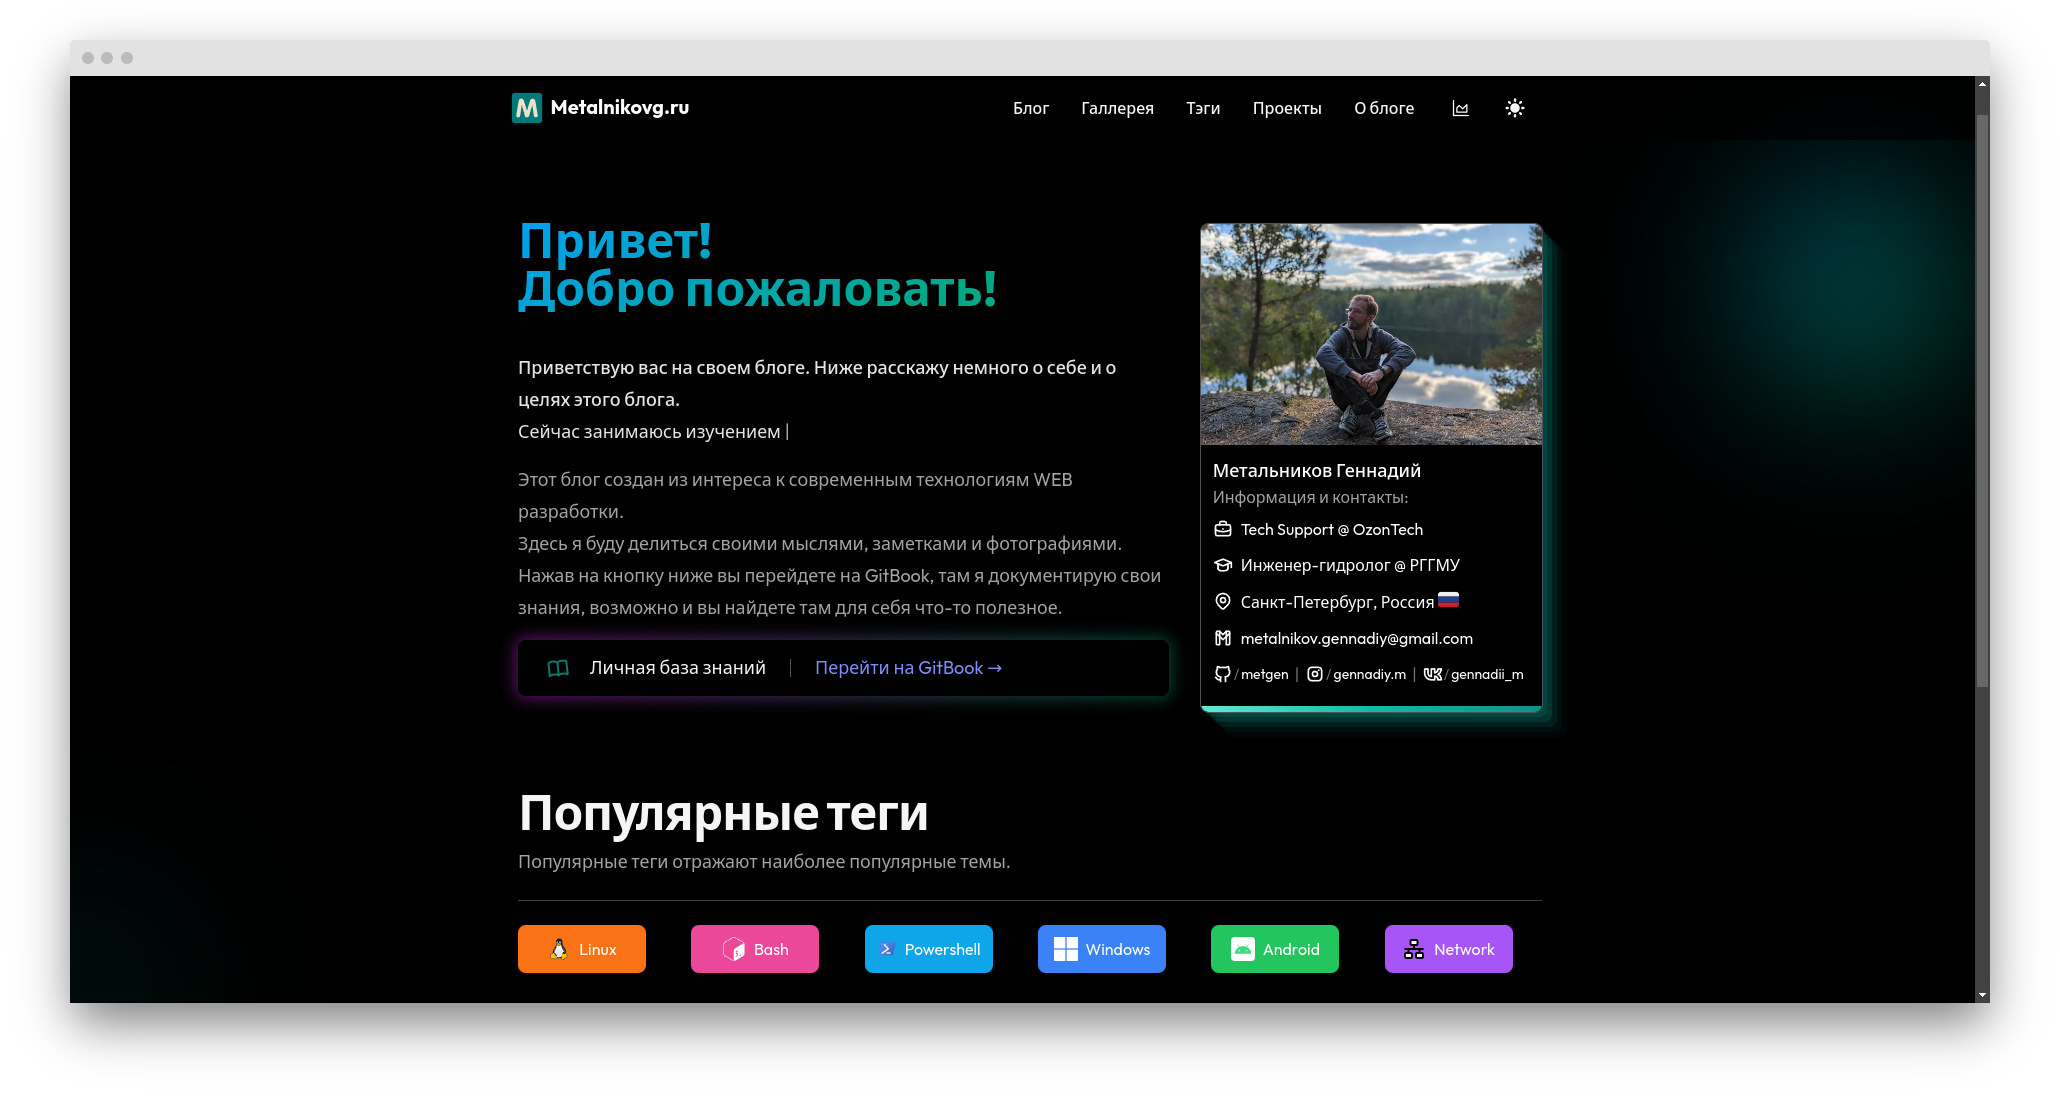
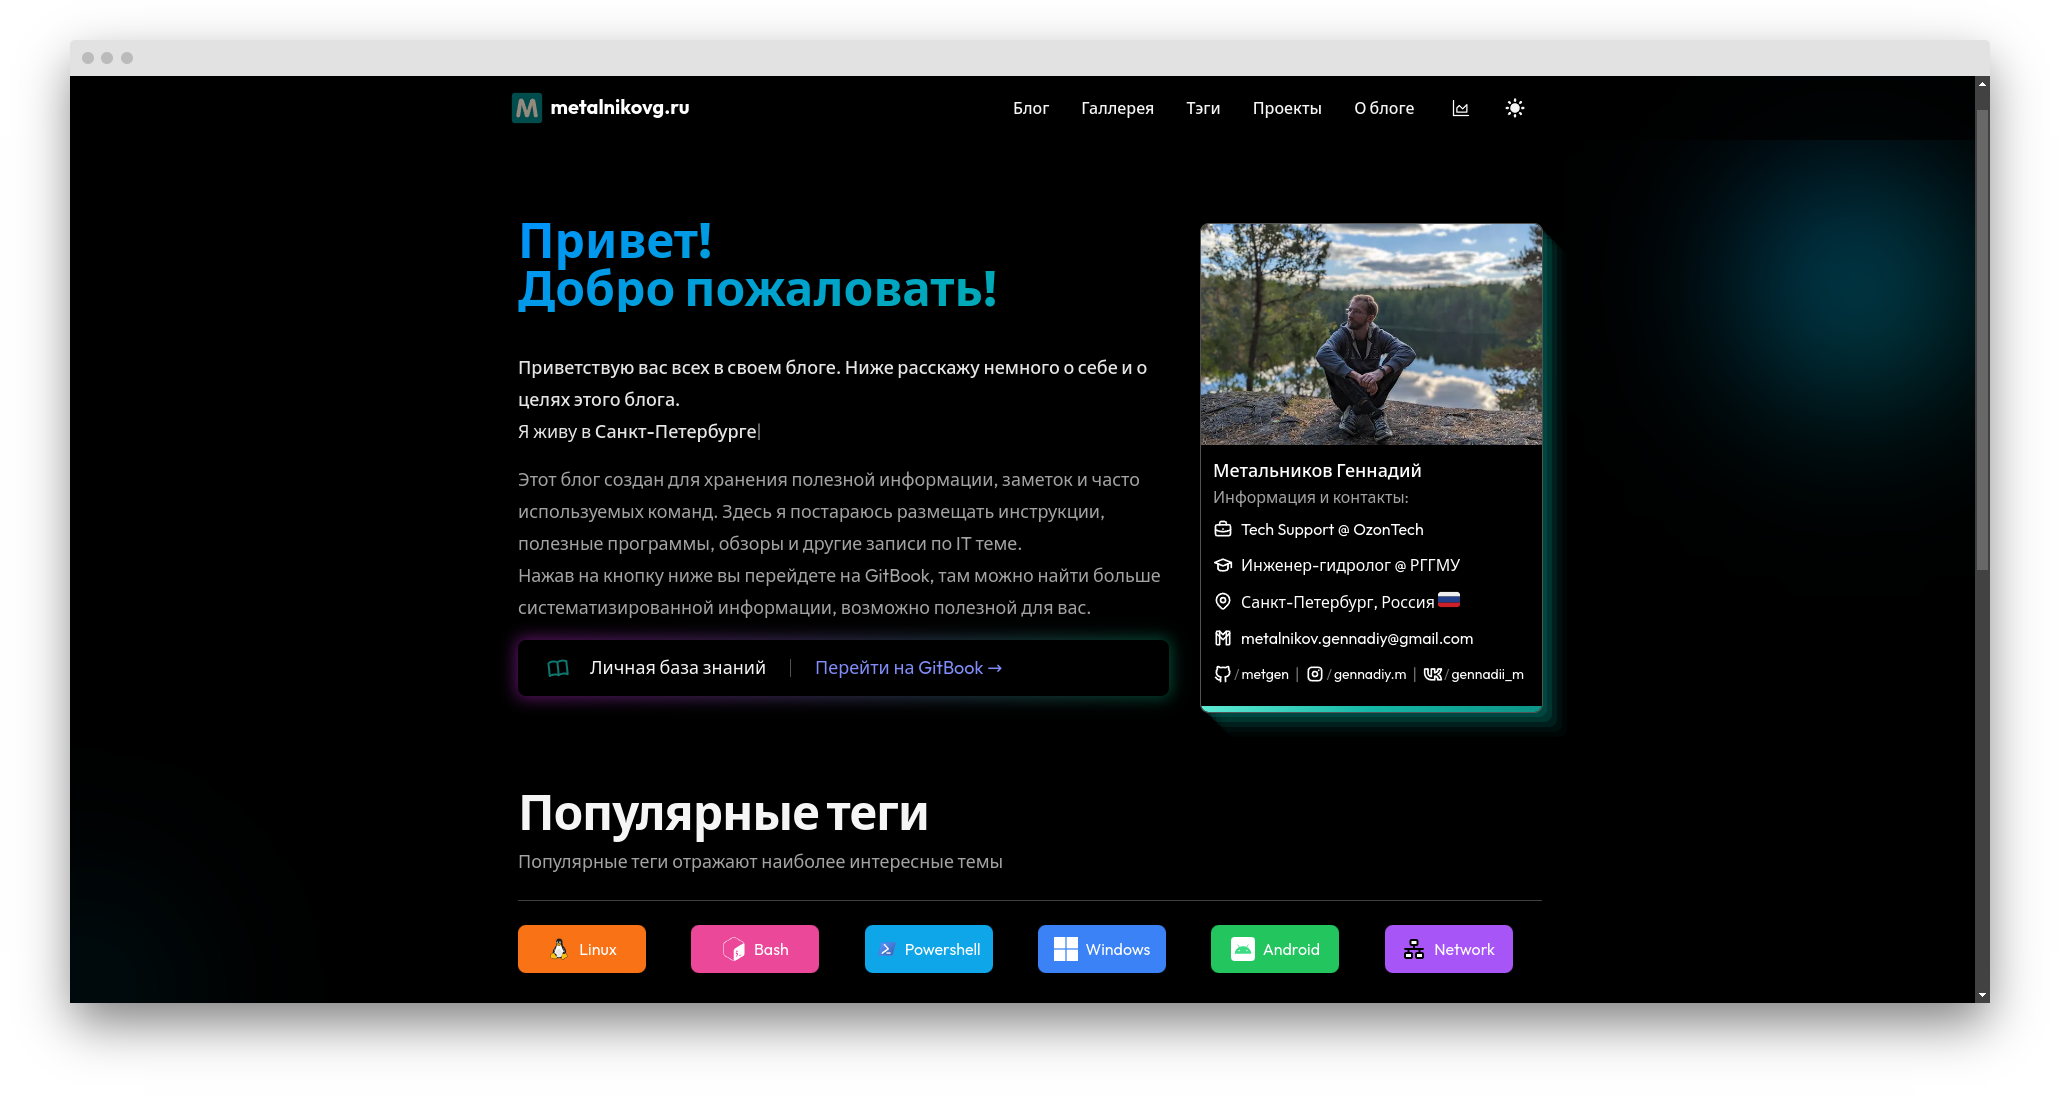
some optimization

diff --git a/layouts/ListLayoutWithTags.tsx b/layouts/ListLayoutWithTags.tsx
@@ -93,13 +93,13 @@ export default function ListLayoutWithTags({
         <div className="hidden h-full max-h-screen min-w-[240px] max-w-[240px] flex-wrap overflow-auto rounded bg-gray-200 pt-5 shadow-md dark:bg-[#24283b] dark:shadow-gray-800/40 sm:flex">
           <div className="px-6 py-4">
             {pathname.startsWith('/blog') ? (
-              <h3 className="font-bold uppercase text-primary">Все посты</h3>
+              <h3 className="font-bold uppercase text-primary">Все записи</h3>
             ) : (
               <Link
                 href={`/blog`}
                 className="font-bold uppercase text-gray-700 hover:text-primary dark:text-gray-300 dark:hover:text-primary"
               >
-                Все посты
+                Все записи
               </Link>
             )}
             <ul>
@@ -141,7 +141,7 @@ export default function ListLayoutWithTags({
                 aria-label="Search articles"
                 type="text"
                 onChange={(e) => setSearchValue(e.target.value)}
-                placeholder="Search articles"
+                placeholder="Ключевые слова"
                 className="block w-full rounded-md border border-gray-300 bg-white px-4 py-2 text-gray-900 focus:border-sky-500 focus:ring-sky-500 dark:border-gray-900 dark:bg-gray-800 dark:text-gray-100"
               />
             </label>

diff --git a/data/projectsData.ts b/data/projectsData.ts
@@ -3,18 +3,34 @@ import type { Project } from '@/types/data';
 const projectsData: Project[] = [
   {
     type: 'main',
-    title: 'GitBook',
-    description: 'Моя личная база знаний',
-    imgSrc: '/static/images/projects/gitbook.png',
-    url: 'https://gitbook.metalnikovg.ru',
-    builtWith: ['GitBook', 'GitHub', 'Markdown'],
-  },
-  {
-    type: 'self',
     title: 'Персональный веб-сайт',
     imgSrc: '/static/images/projects/personal_blog.png',
     repo: 'metalnikovg.ru',
     builtWith: ['Next.js', 'Tailwind', 'Typescript', 'Prisma', 'Umami'],
+  },
+  {
+    type: 'main',
+    title: 'GitBook',
+    imgSrc: '/static/images/projects/gitbook.png',
+    url: 'https://gitbook.metalnikovg.ru',
+    repo: 'gitbook.metalnikovg',
+    builtWith: ['GitBook', 'GitHub', 'Markdown'],
+  },
+  {
+    type: 'main',
+    title: 'EXIF - галерея',
+    imgSrc: '/static/images/projects/gallery.png',
+    url: 'https://gallery.metalnikovg.ru',
+    repo: 'exif-gallery',
+    builtWith: [ 'Vercel', 'Vercel Postgres', 'GitHub', 'Typescript', 'Cloudflare R2'],
+  },
+  {
+    type: 'self',
+    title: 'MKT-monitoring',
+    description: 'Мониторинг роутера Mikrotik',
+    imgSrc: '/static/images/projects/mkt-monitoring.png',
+    repo: 'mkt_monitoring',
+    builtWith: ['Grafana', 'Prometheus', 'Blackbox', 'Nginx', 'Docker'],
   },
 ];
 

diff --git a/components/homepage/ShortDescription.tsx b/components/homepage/ShortDescription.tsx
@@ -1,11 +1,13 @@
 const ShortDescription = () => {
   return (
     <div className="mb-4 mt-4">
-      <p>Этот блог создан из интереса к современным технологиям WEB разработки.</p>
-      <p>Здесь я буду делиться своими мыслями, заметками и фотографиями.</p>
       <p>
-        Нажав на кнопку ниже вы перейдете на GitBook, там я документирую свои знания, возможно и вы найдете там для себя
-        что-то полезное.
+        Этот блог создан для хранения полезной информации, заметок и часто используемых команд. Здесь я постараюсь
+        размещать инструкции, полезные программы, обзоры и другие записи по IT теме.
+      </p>
+      <p>
+        Нажав на кнопку ниже вы перейдете на GitBook, там можно найти больше систематизированной информации, возможно
+        полезной для вас.
       </p>
     </div>
   );

diff --git a/components/blog/BlogMeta.tsx b/components/blog/BlogMeta.tsx
@@ -4,18 +4,19 @@ import type { BlogMetaProps } from '@/types/index';
 
 import { Twemoji } from '../Twemoji';
 import ViewCounter from './ViewCounter';
+import siteMetadata from '@/data/siteMetadata';
 
 const BlogMeta = ({ date, slug, readingTime }: BlogMetaProps) => {
   return (
     <dd className="flex-column flex gap-1 font-semibold text-gray-500 dark:text-gray-400">
       <time dateTime={date} className="flex items-center">
         <Twemoji emoji="calendar" size="1" />
-        <span className="ml-1 md:ml-2">{formatDate(date)}</span>
+        <span className="ml-1 md:ml-2">{formatDate(date, siteMetadata.locale)}</span>
       </time>
       <span className="mx-2">{` • `}</span>
       <div className="flex items-center">
         <Twemoji emoji="hourglass-not-done" size="1" />
-        <span className="ml-1.5 md:ml-2">{Math.ceil(readingTime.minutes)} mins read</span>
+        <span className="ml-1.5 md:ml-2">{Math.ceil(readingTime.minutes)} мин. чтения</span>
       </div>
       <span className="mx-2">{` • `}</span>
       <div className="flex items-center">

diff --git a/pages/_document.tsx b/pages/_document.tsx
@@ -6,9 +6,9 @@ class MyDocument extends Document {
     return (
       <Html lang={siteMetadata.language} className="scroll-smooth">
         <Head>
-          <link rel="apple-touch-icon" sizes="76x76" href="/static/favicons/apple-touch-icon.png" />
-          <link rel="icon" type="image/png" sizes="32x32" href="/static/favicons/favicon.png" />
-          <link rel="icon" type="image/png" sizes="16x16" href="/static/favicons/favicon.png" />
+          <link rel="apple-touch-icon" sizes="180x180" href="/static/favicons/apple-touch-icon.png" />
+          <link rel="icon" type="image/png" sizes="32x32" href="/static/favicons/favicon-32x32.png" />
+          <link rel="icon" type="image/png" sizes="16x16" href="/static/favicons/favicon-16x16.png" />
           <link rel="manifest" href="/static/favicons/site.webmanifest" />
           <link rel="mask-icon" href="/static/favicons/safari-pinned-tab.svg" color="#5bbad5" />
           <meta name="msapplication-TileColor" content="#000000" />

diff --git a/layouts/ListLayout.tsx b/layouts/ListLayout.tsx
@@ -72,7 +72,7 @@ export default function ListLayout({ posts, title, initialDisplayPosts = [], pag
           <h1 className="text-3xl font-extrabold leading-9 tracking-tight text-gray-900 dark:text-gray-100 sm:text-4xl sm:leading-10 md:text-6xl md:leading-14">
             {title}
           </h1>
-          <p className="text-lg leading-7 text-gray-500 dark:text-gray-400">Посты на разные темы</p>
+          <p className="text-lg leading-7 text-gray-500 dark:text-gray-400">Записи на разные темы</p>
           <div className="relative max-w-lg">
             <label>
               <span className="sr-only">Search articles</span>

diff --git a/components/homepage/Heading.tsx b/components/homepage/Heading.tsx
@@ -5,7 +5,7 @@
 const Heading = () => {
   return (
     <h1 className="font-medium text-neutral-900 dark:text-neutral-200">
-      Приветствую вас на своем блоге. Ниже расскажу немного о себе и о целях этого блога.{' '}
+      Приветствую вас всех в своем блоге. Ниже расскажу немного о себе и о целях этого блога.{' '}
       <span className="hidden">Санкт-Петербург, Россия</span>
       <span className="absolute ml-1.5 inline-flex pt-[3px]"></span>
     </h1>

diff --git a/pages/index.tsx b/pages/index.tsx
@@ -127,7 +127,11 @@ export default function Home({ posts }: InferGetStaticPropsType<typeof getStatic
       </div>
       {posts.length > MAX_DISPLAY && (
         <div className="flex justify-end text-base font-medium leading-6">
-          <Link href="/blog" className="text-primary hover:text-sky-600 dark:hover:text-sky-400" aria-label="Все посты">
+          <Link
+            href="/blog"
+            className="text-primary hover:text-sky-600 dark:hover:text-sky-400"
+            aria-label="Все записи"
+          >
             Все записи &rarr;
           </Link>
         </div>

diff --git a/components/Tag.tsx b/components/Tag.tsx
@@ -9,9 +9,9 @@ const Tag = ({ text }: Props) => {
   return (
     <Link
       href={`/tags/${kebabCase(text)}`}
-      className="mr-3 text-sm font-medium uppercase text-primary hover:text-sky-600 dark:hover:text-sky-400"
+      className="mr-3 text-sm font-medium uppercase text-primary hover:text-teal-600 dark:hover:text-teal-400"
     >
-      {text.split(' ').join('-')}
+      <span data-umami-event="tag">#{text.split(' ').join('-')}</span>
     </Link>
   );
 };

diff --git a/pages/blog/index.tsx b/pages/blog/index.tsx
@@ -35,7 +35,7 @@ export default function BlogPage({
   return (
     <>
       <PageSEO title={`Блог - ${headerTitle} - ${title}`} description={description} />
-      <ListLayout posts={posts} initialDisplayPosts={initialDisplayPosts} pagination={pagination} title="Все посты" />
+      <ListLayout posts={posts} initialDisplayPosts={initialDisplayPosts} pagination={pagination} title="Все записи" />
     </>
   );
 }

diff --git a/pages/blog/page/[page].tsx b/pages/blog/page/[page].tsx
@@ -49,7 +49,7 @@ export default function PostPage({
   return (
     <>
       <PageSEO title={siteMetadata.title} description={siteMetadata.description} />
-      <ListLayout posts={posts} initialDisplayPosts={initialDisplayPosts} pagination={pagination} title="Все посты" />
+      <ListLayout posts={posts} initialDisplayPosts={initialDisplayPosts} pagination={pagination} title="Все записи" />
     </>
   );
 }

diff --git a/components/Header.tsx b/components/Header.tsx
@@ -22,7 +22,7 @@ const Header = () => {
             <Logo className="fill-dark dark:fill-teal-900" />
           </div>
           <div className="group ml-2 text-xl font-bold transition duration-300">
-            Metalnikovg.ru
+            metalnikovg.ru
             <span className="block h-0.5 max-w-0 bg-black transition-all duration-500 group-hover:max-w-[85%] dark:bg-white"></span>
           </div>
         </Link>
